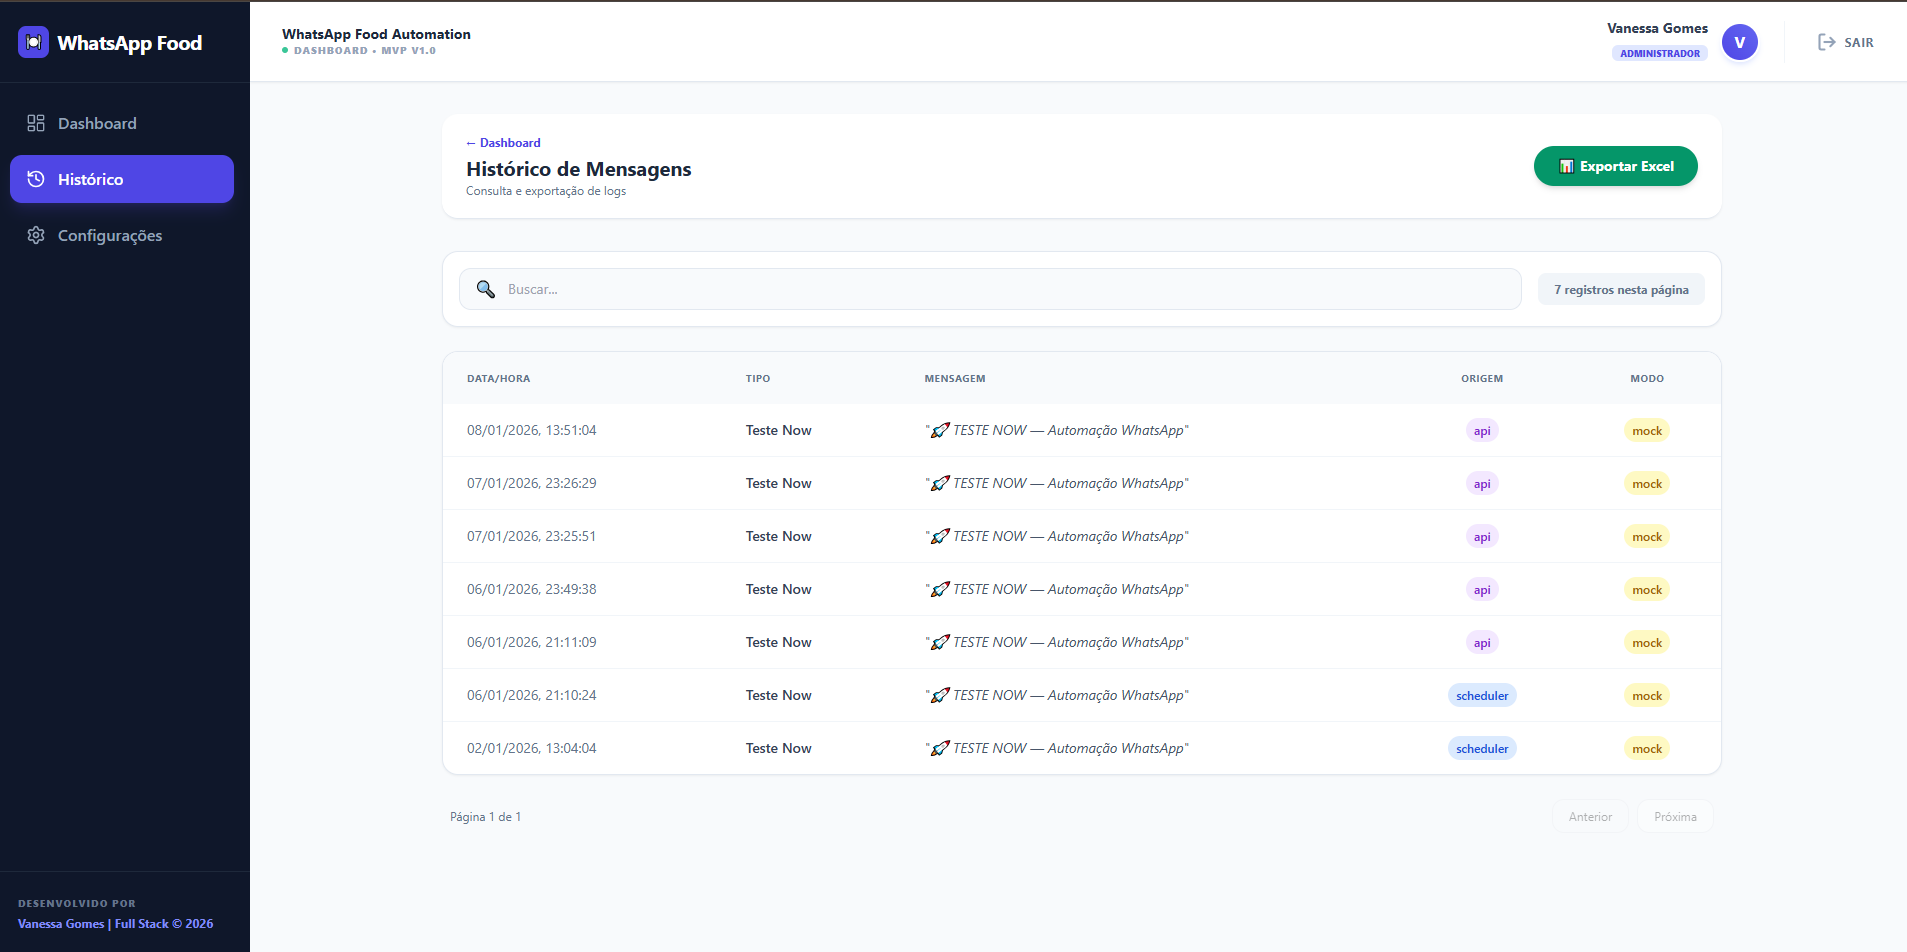
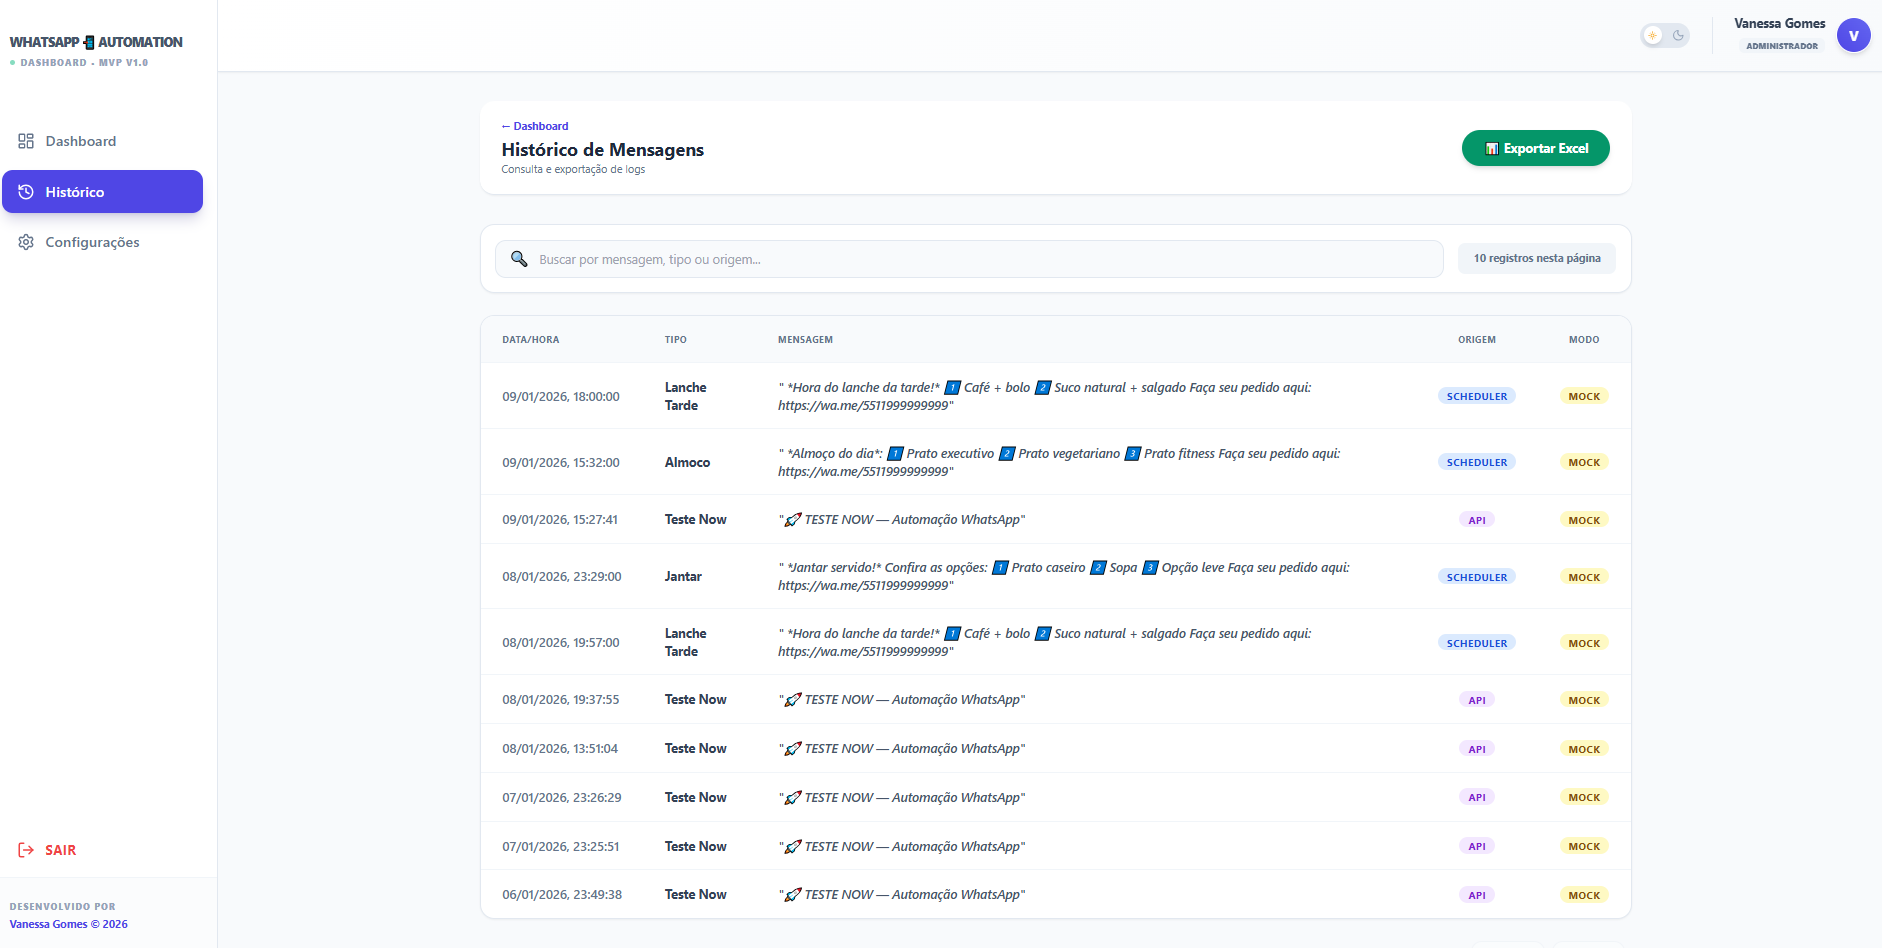
docs: update READMEs with dark mode, responsiveness and new UX features- Added Dark Mode documentation. - Updated technical details about mobile-first responsiveness. - Noted new chart color logic and Context API implementation.

diff --git a/frontend/README.md b/frontend/README.md
@@ -12,6 +12,9 @@ Painel administrativo profissional desenvolvido para gestão de disparos e contr
 - **📊 Dashboard Dinâmico**: Gráficos interativos (Recharts) que respeitam o nível de acesso do usuário.
 - **⚡ Envio Manual Interativo**: Botão de disparo imediato integrado à API com feedback via `react-hot-toast`.
 - **📂 Exportação Profissional**: Relatórios em Excel (.xlsx) integrando filtros avançados.
+- **🌓 Sistema de Temas**: Alternância entre modo Light e Dark persistente, utilizando Context API e Tailwind CSS.
+- **📱 Navegação Responsiva**: Sidebar inteligente com modo Drawer para dispositivos móveis.
+- **🎨 UX Otimizada**: Cabeçalho clean com degradês sutis e Sidebar organizada com controle de sessão (Logout) no rodapé.
 
 ## 🎨 Identidade Visual
 O projeto utiliza uma estética **SaaS Moderna**:
@@ -20,10 +23,11 @@ O projeto utiliza uma estética **SaaS Moderna**:
 - **Responsividade**: Adaptado para Desktop e Mobile.
 
 ## 🛠 Tecnologias
-- React.js 18 + Vite
-- Tailwind CSS (Estilização SaaS)
-- Recharts (Gráficos)
-- Lucide React (Ícones)
+- React.js 18 (Vite)
+- Context API (Gestão de Estado Global de Tema)
+- Tailwind CSS (Estilização SaaS e Dark Mode)
+- Recharts (Gráficos Multi-cores)
+- Lucide React (Ícones e Navegação)
 - React Router Dom (Navegação Protegida)
 - ExcelJS (Relatórios)
 - Axios (Integração com API)

diff --git a/README.md b/README.md
@@ -23,8 +23,9 @@ Este é um ecossistema completo para automação de disparos de mensagens para r
 - **🔒 Autenticação e Segurança**: Login persistente com controle de sessão e proteção de rotas privadas.
 - **🛡 Permissões Granulares (RBAC)**: Diferenciação entre níveis de acesso (Admin vs Funcionário).
 - **⏱ Agendamento Inteligente**: Backend em Python com APScheduler para disparos automáticos.
-- **📊 Relatórios**: Exportação de logs de envio para formato Excel (.xlsx).
-- **📱 Responsividade Total**: Interface construída com Tailwind CSS para operação em desktop e tablets.
+- **🌓 Dark Mode Nativo**: Suporte completo a temas claro e escuro com persistência de preferência via Context API.
+- **📱 Interface Mobile-First**: Sidebar retrátil e layout adaptável para smartphones, tablets e desktop.
+- **📊 Gráficos Inteligentes**: Visualização de dados por categoria com paleta de cores dinâmica para facilitar a leitura.
 
 ---
 
